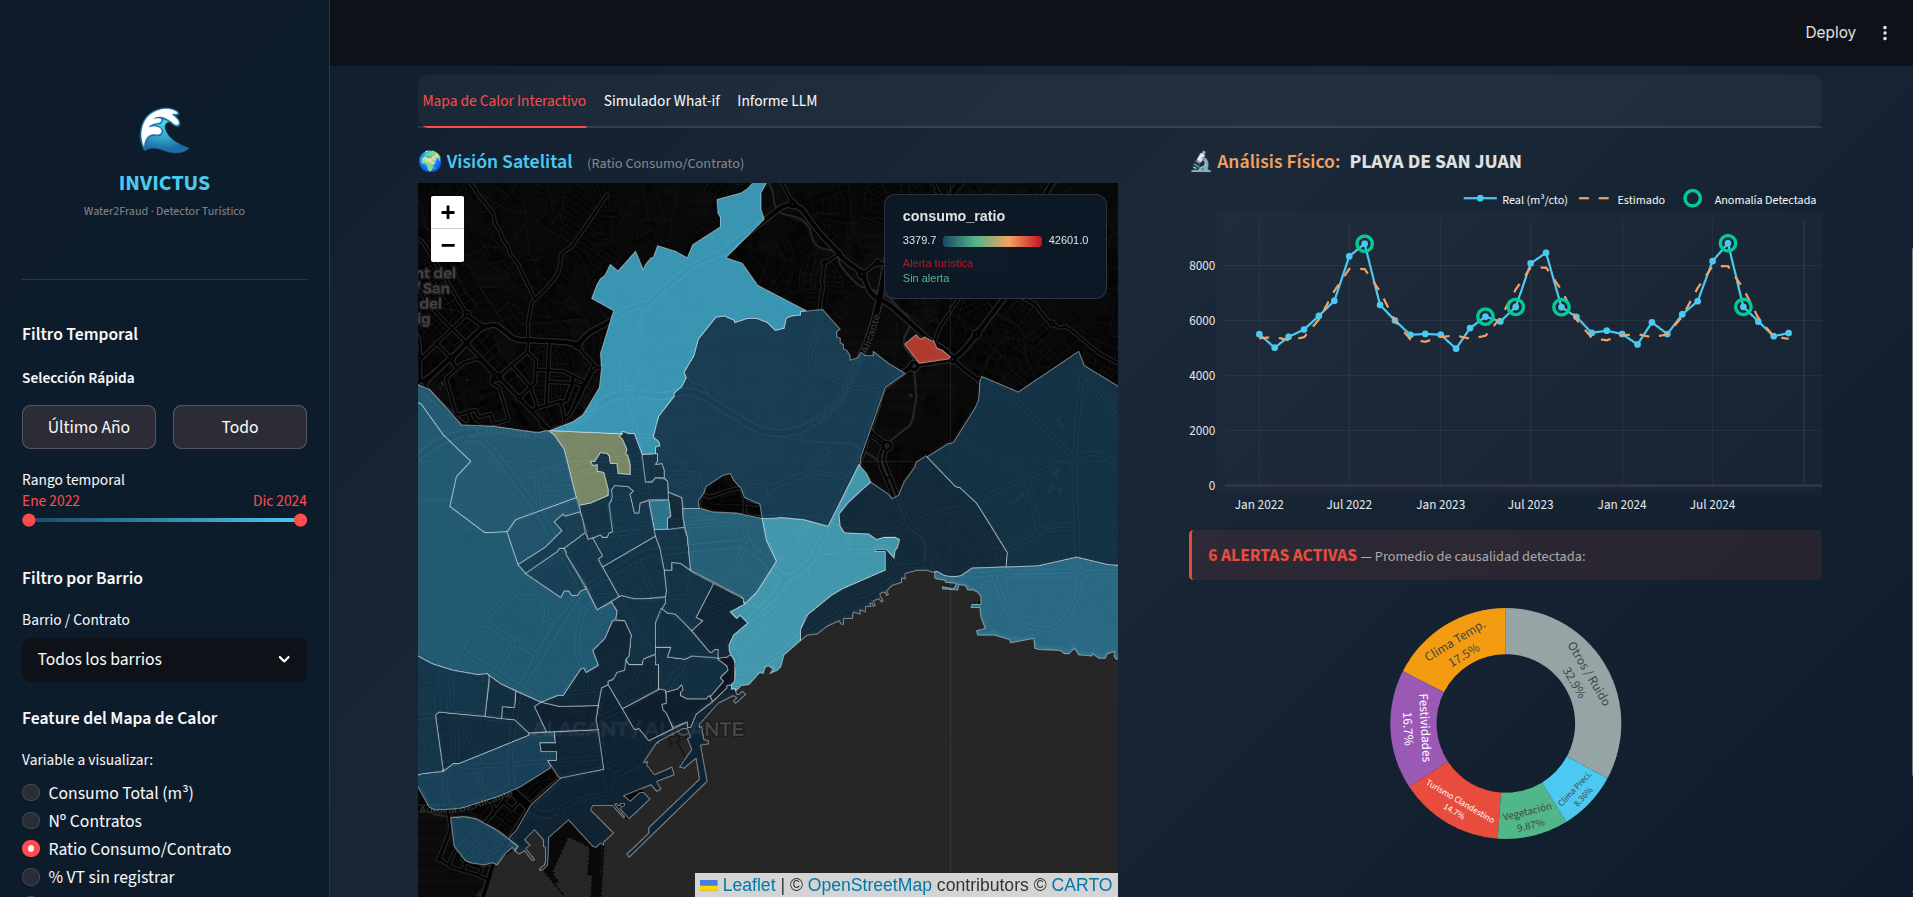
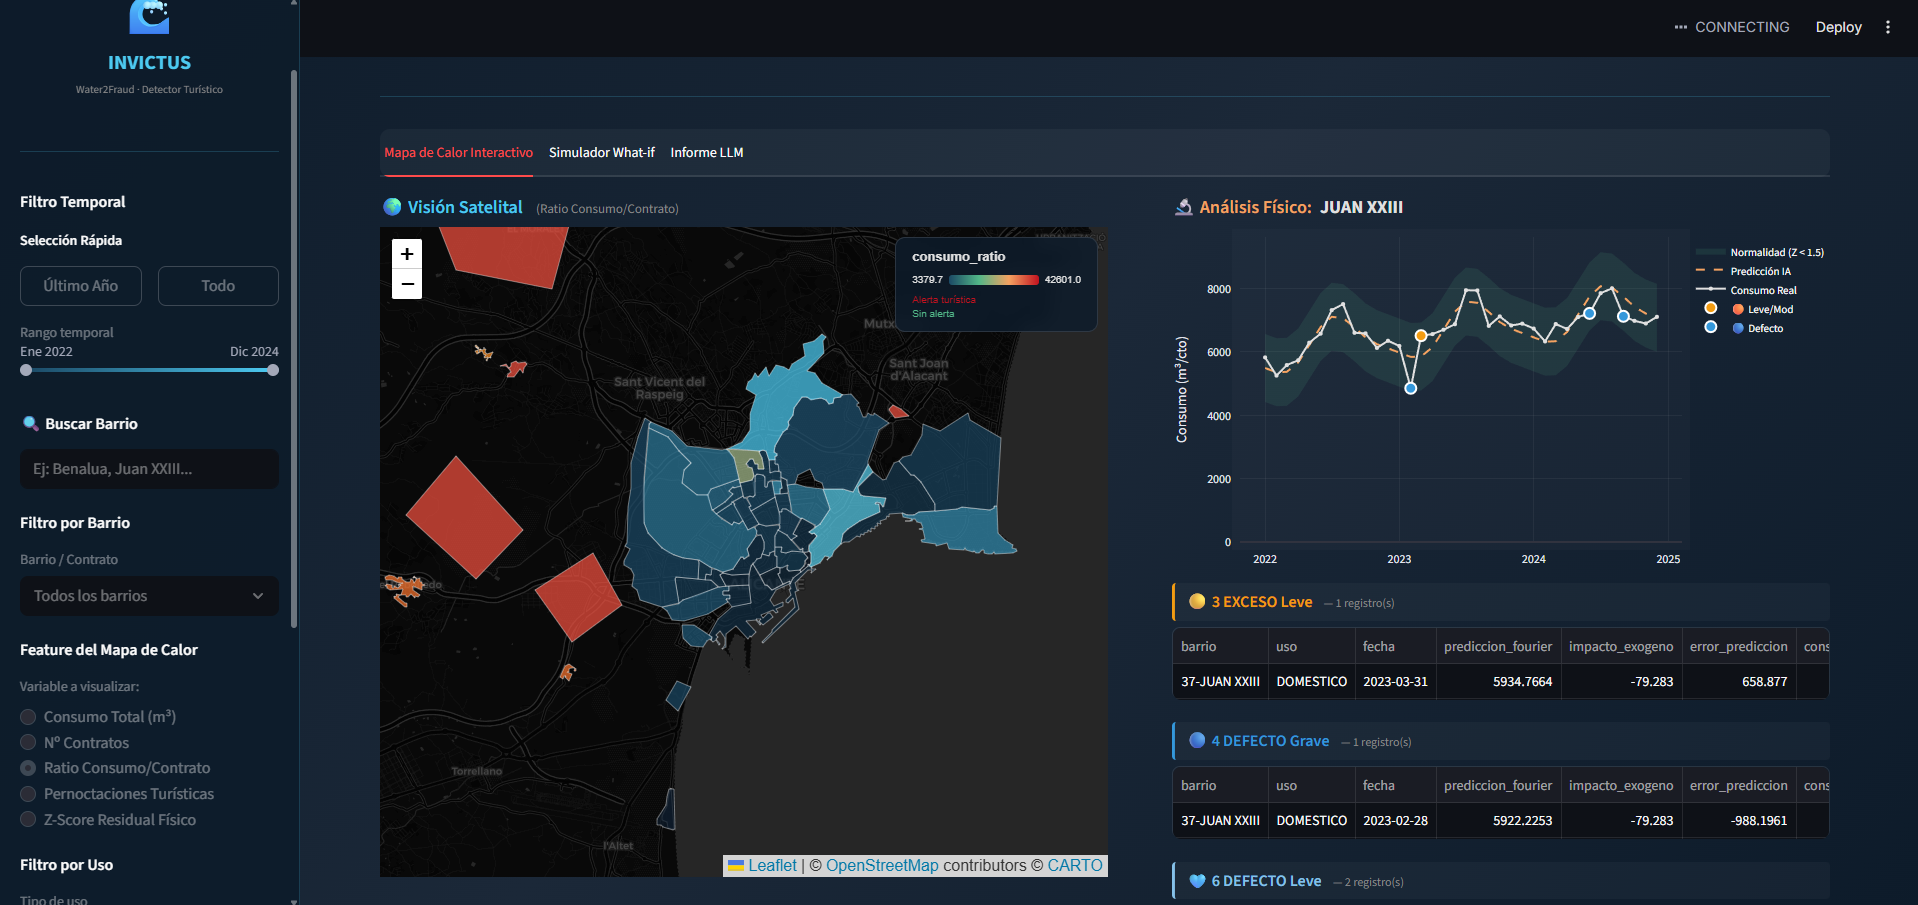
Actualizacion del readme

diff --git a/README.md b/README.md
@@ -62,9 +62,9 @@ INVICTUS utiliza un **modelo híbrido de física + machine learning** para deter
 
 ### El Modelo en 3 Frases
 
-1. **Base Física (Fourier):** Ajustamos una onda estacional de 2° orden por cada combinación `[Barrio × Uso]` para capturar el patrón natural de consumo — la "huella dactilar hídrica" de cada zona.
+1. **Base Física (Fourier):** Ajustamos una onda estacional de 2° orden por cada combinación `[Barrio × Uso]`, aplicando un **filtro de meses neutros** para aislar el patrón natural base sin la contaminación del sobreconsumo turístico — la "huella dactilar hídrica" pura de cada zona.
 
-2. **Impacto Exógeno (Random Forest):** El residuo entre lo que Fourier predice y el consumo real se modela con un RF que aprende el impacto de temperatura, lluvia, vegetación, turismo y festivos.
+2. **Impacto Exógeno (Random Forest):** El residuo entre lo que Fourier predice y el consumo real se modela con un RF que aprende el impacto de la temperatura, las precipitaciones, la vegetación, el **turismo por pernoctaciones (INE)** y el calendario de **festivos (incluyendo días puente)**.
 
 3. **Detección y Triaje:** La diferencia final (`consumo_real - consumo_esperado`) se convierte en un Z-Score que alimenta un **semáforo de 6 niveles** + atribución causal porcentual automática.
 
@@ -173,20 +173,21 @@ Visualización choropleth interactiva de Alicante con geometrías reales (GeoJSO
 <img src="docs/img/whatif.png" alt="Simulador What-If" width="55%">
 </div>
 
-Permite ajustar manualmente los valores de las 5 variables exógenas y visualizar en tiempo real:
+Impulsado por un avanzado **motor de inferencia no lineal**, el simulador permite ajustar los valores de las variables exógenas para observar su impacto re-escalado por Fourier, mientras utiliza la **distancia de Mahalanobis** para garantizar la validez física de los escenarios ingresados.
 
 | Variable | Rango | Descripción |
 |----------|-------|-------------|
-| 🌡 Temperatura | -5 a 45 °C | Media mensual del barrio |
-| 🌧 Precipitación | 0 a 300 mm | Acumulada mensual |
-| 🌿 NDVI | -1 a 1 | Índice de vegetación satelital |
-| 🏠 % VT sin registrar | 0 a 100% | Estimación de turismo ilegal |
-| 🎉 % Festivos | 0 a 50% | Proporción de días festivos |
+| 🌡 Temperatura | Dinámico | Variación térmica respecto a la media |
+| 🌧 Precipitación | Dinámico | Variación acumulada mensual |
+| 🌿 NDVI | Dinámico | Índice de vegetación satelital |
+| 🏖 Turismo | Basado en INE | Estimación de pernoctaciones / turismo ilegal |
+| 🎉 Festivos | % mensual | Calendario oficial y días puente |
 
 **Salidas del simulador:**
-- **Gauge** del Z-Score simulado con semáforo de alerta
-- **Barras comparativas** (Base Fourier vs Simulación vs Real Histórico)
-- **Radar de sensibilidad** mostrando la contribución de cada feature
+- **Validación Mahalanobis:** Alerta interactiva ante combinaciones climáticas atípicas.
+- **Gauge** del Z-Score simulado con semáforo de alerta y riesgo.
+- **Barras comparativas** (Base Fourier vs Simulación vs Real Histórico).
+- **Radar de sensibilidad por cuantiles** mostrando la contribución y plausibilidad de cada feature.
 
 ### 🤖 Tab 3 — Informe LLM
 
